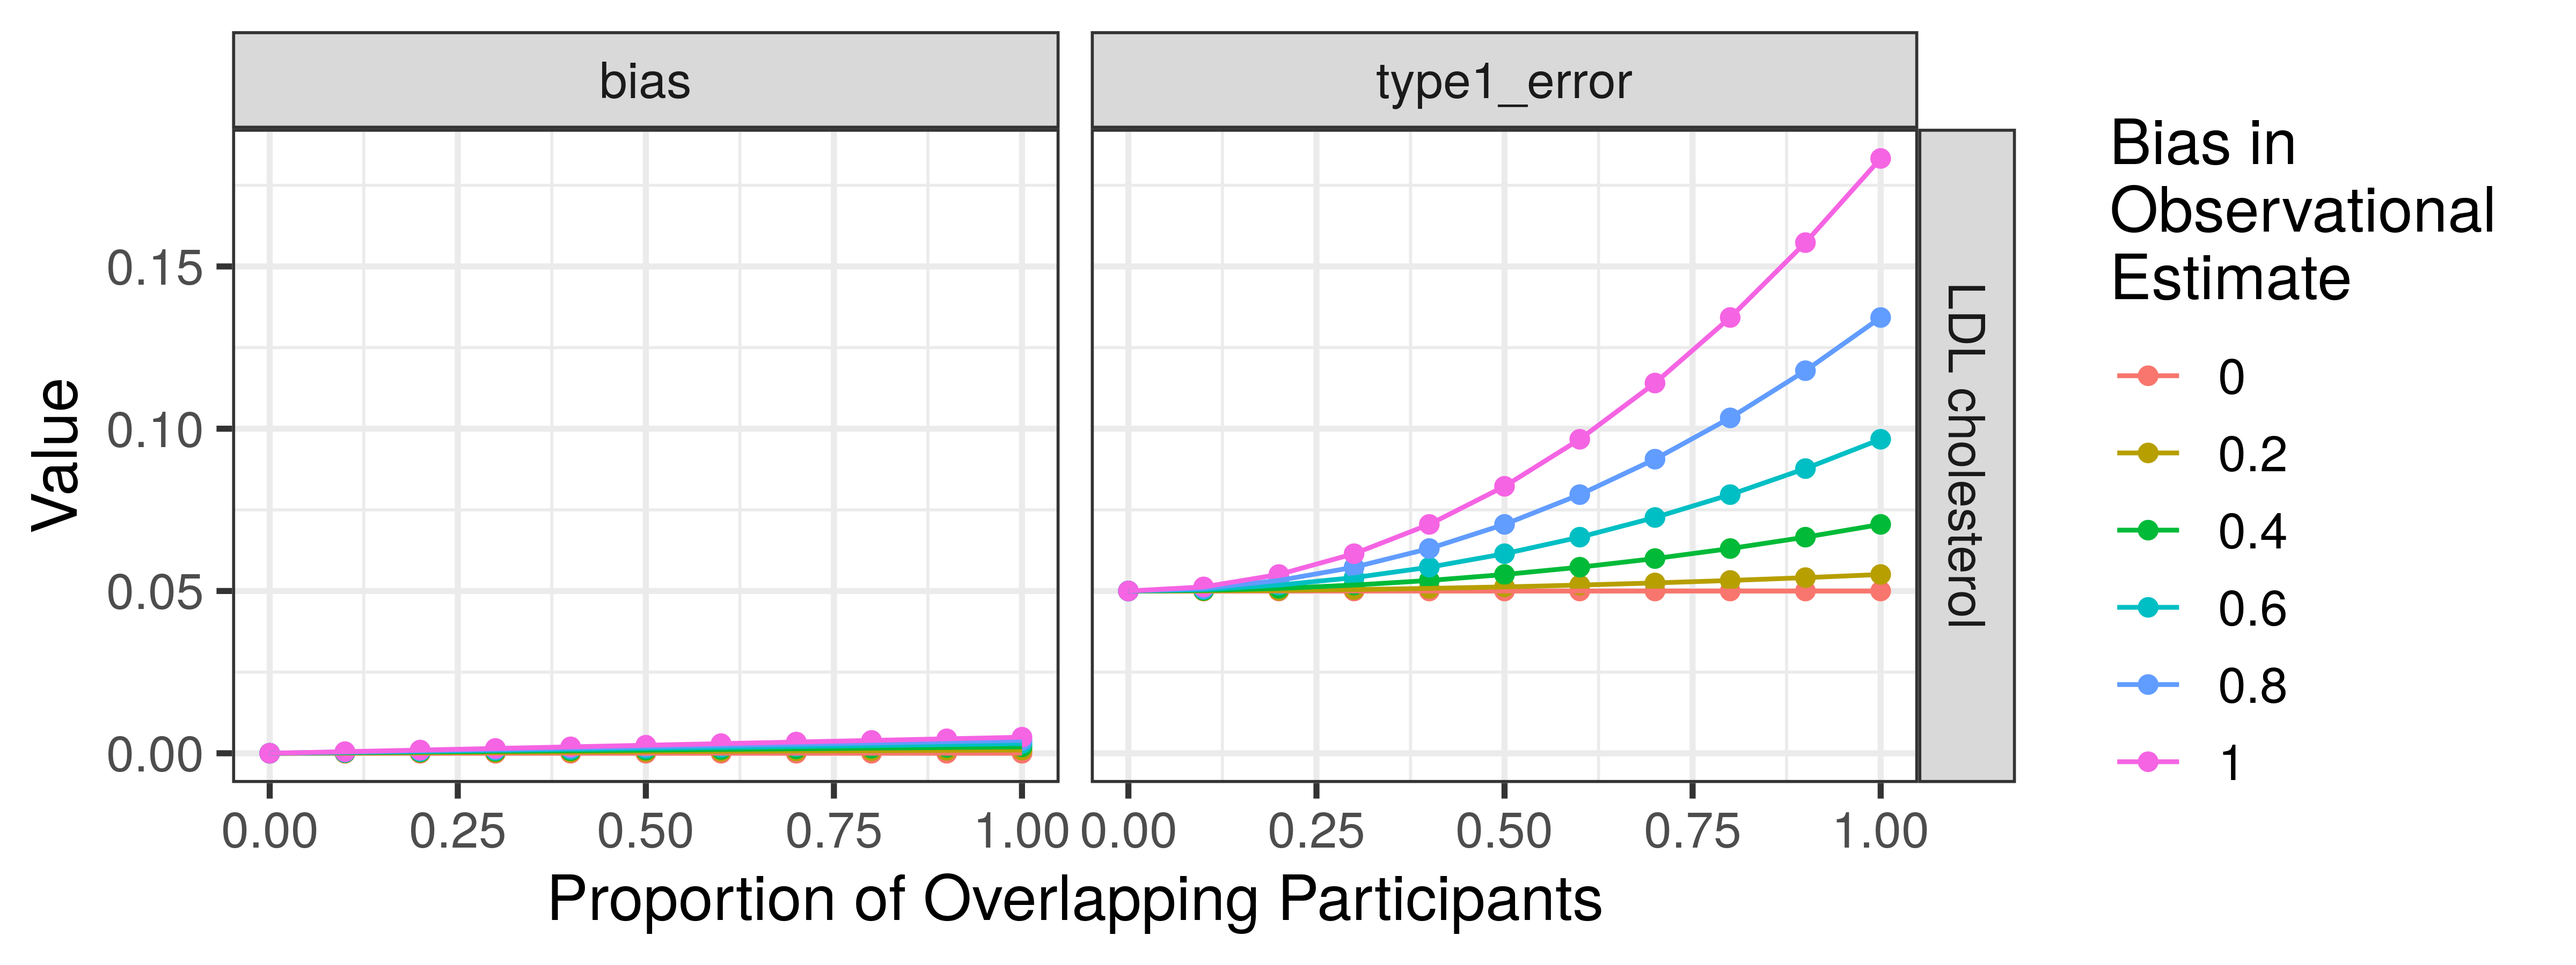
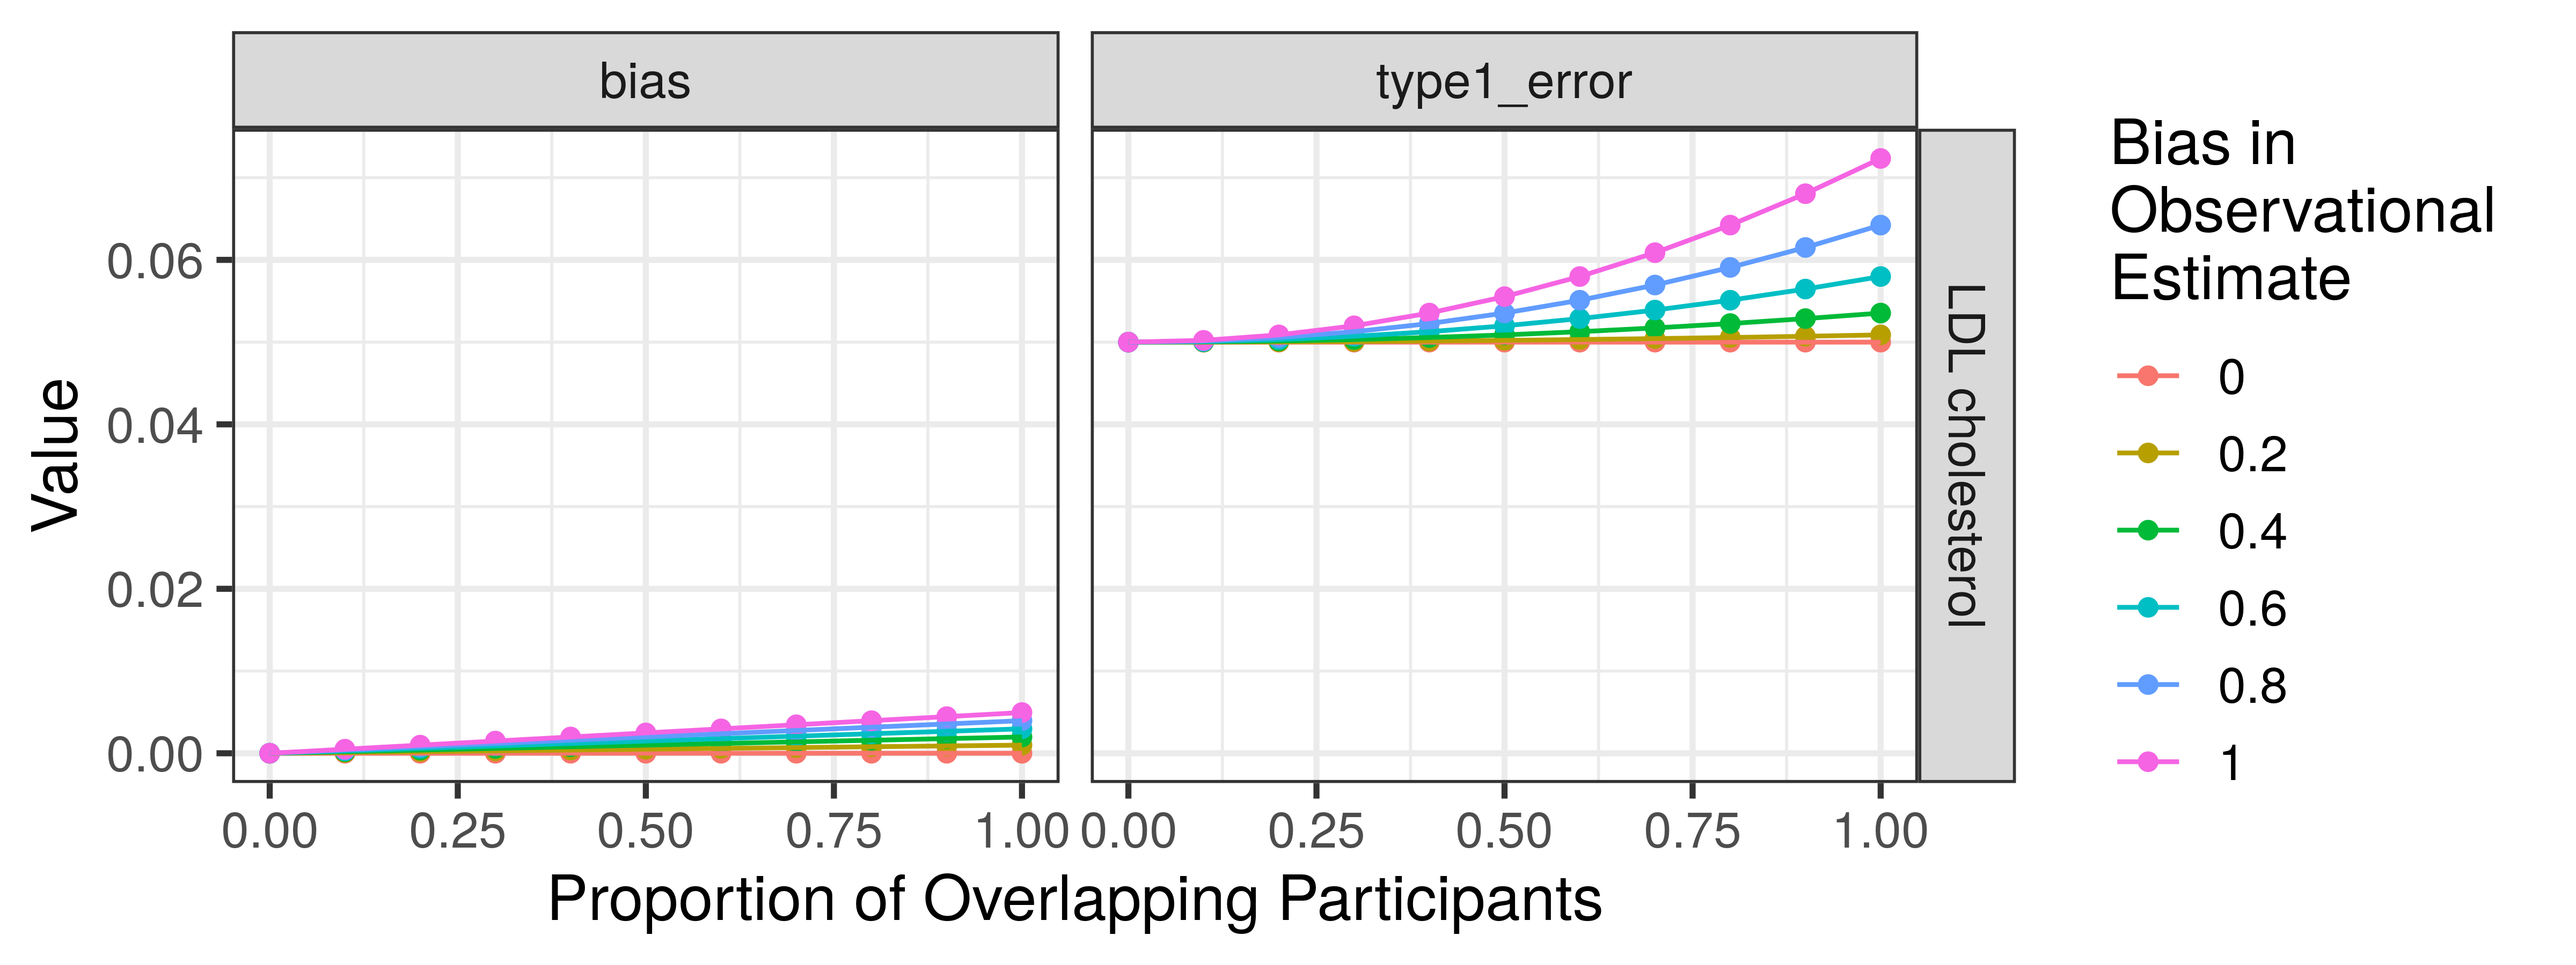
Fixed example to use binary outcome

diff --git a/README.md b/README.md
@@ -34,7 +34,10 @@ sample overlap and observational bias.
 
 First, we will use the `TwoSampleMR` package to query the [MRC-IEU
 OpenGWAS Project](https://gwas.mrcieu.ac.uk/) for summary GWAS data to
-use for our exposure and outcome:
+use for our exposure and outcome. We will consider LDL cholesterol
+(Willer et. al. 2013) as our exposure, and Coronary Artery Disease (Van
+der Harst et. al. 2017; 122,733 cases and 424,528 controls) as our
+outcome:
 
 ``` r
 # devtools::install_github("MRCIEU/TwoSampleMR")
@@ -79,7 +82,7 @@ Finally, we can estimate bias in our MR estimates using the
 ``` r
 bias_res <- dat_summarized %>%
   crossing(grid) %>%
-  mutate(res = estimate_overlap_bias(samplesize_exposure = samplesize_exposure, samplesize_outcome = samplesize_outcome, n_variants = n_variants, rsq_exposure = rsq_exposure, overlap_prop = overlap_prop, ols_bias = ols_bias)) %>%
+  mutate(res = estimate_overlap_bias(samplesize_exposure = samplesize_exposure, samplesize_outcome = samplesize_outcome, n_variants = n_variants, rsq_exposure = rsq_exposure, overlap_prop = overlap_prop, ols_bias = ols_bias, case_prop = 122733/547261)) %>%
   unnest(res)
 ```
 
